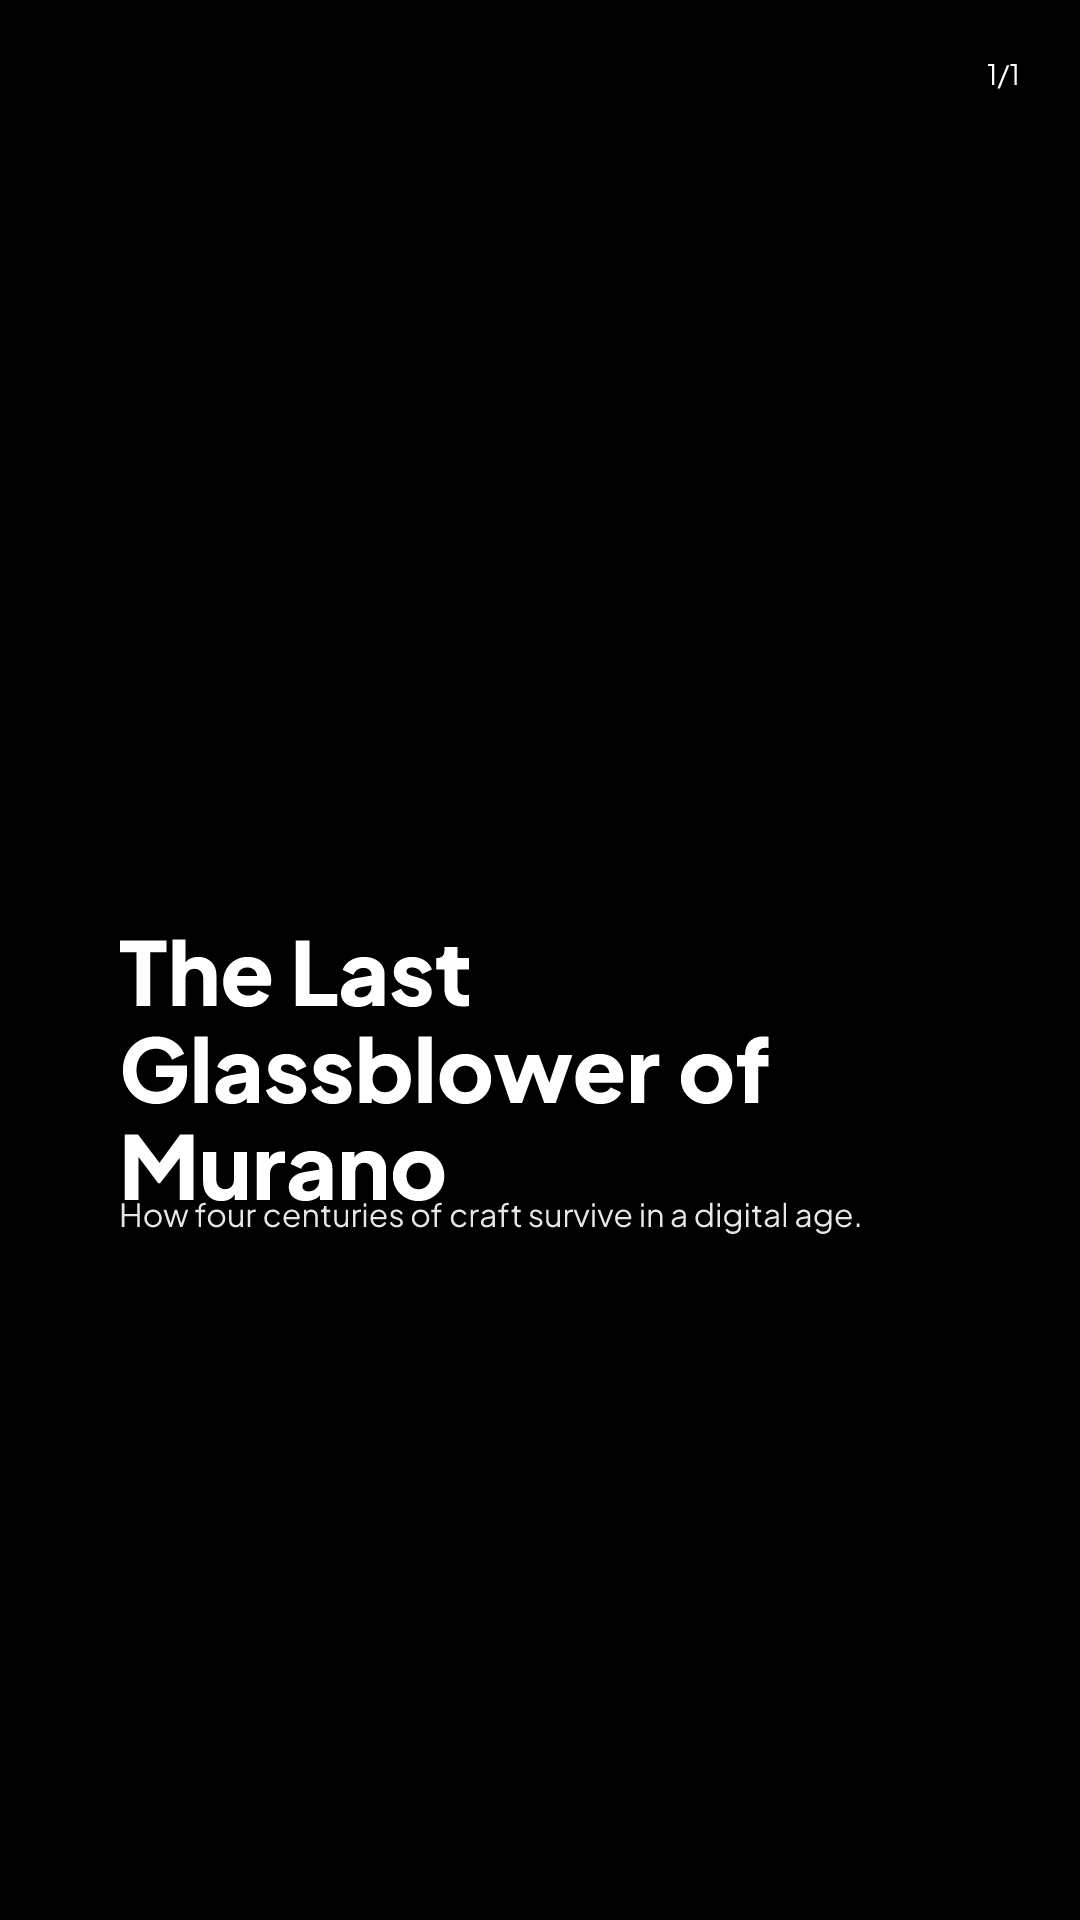
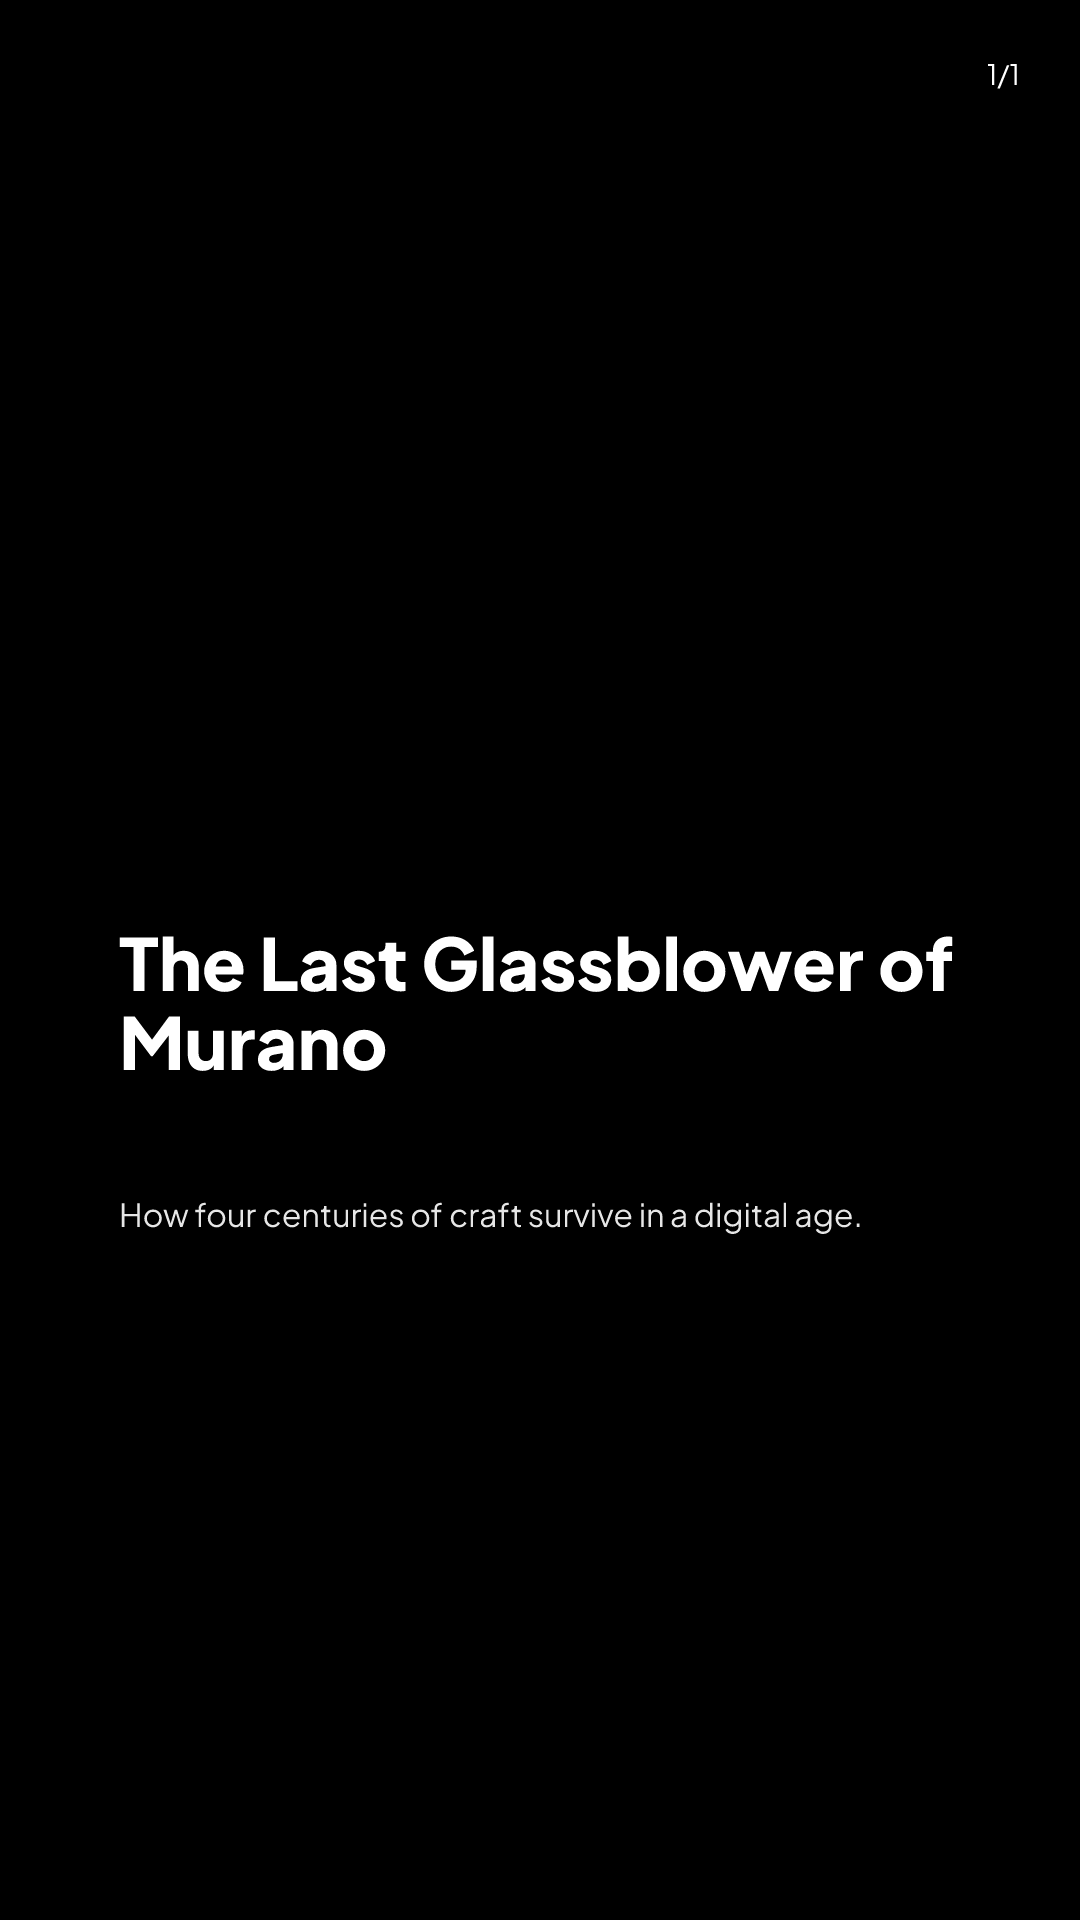
fix(render): tighten hook-fit curves for 4 remaining templates
Audit of HOOK_FIT_REGISTRY against per-template container width and hook
zone height surfaced 4 templates with curves that allow hooks to wrap to
more lines than the hook zone has room for, spilling into the body zone:

- documentary (110px Plus Jakarta Sans, 269px hook zone): 38 chars at
  0.80 produced 3 lines × 97px = 291px — spills 269px hook zone
- editorial-serif (130px Lora bold, 269px inner zone): 30 chars at 0.78
  produced 3 lines × 111px = 333px — spills inner; 48 chars produced
  5 lines × 89 = 445 spilling both inner AND cover. Sample text "The
  quietest revolutions begin in living rooms" was hitting this case.
- notes-app-chic (110px PJS + ransom-note multi-fonts, 346px zone):
  60 chars at 0.64 produced 4 lines × 77 = 308 — fits the generous
  346px zone but ransom-note widening eats the safety buffer.
- brutalist-grid (180px Space Grotesk, 346px zone): even 10 chars at
  full size already overflowed 842px container, and 20 chars at 135px
  produced 2-3 lines × 149 = 447 spilling 346px hook zone.

Tightened curves so each scale step targets single-line fit at 842px
container and ≤2-3 lines × line-height 1.1 at the hook zone height.
brutalist-grid gets the most aggressive curve (most exposed at 180px).

Snapshots regenerated for the documentary template (only one with an
existing snapshot tied to its sample); 4 thumbnails regenerated.

+5 hook-fit unit assertions on real sample.hook_text — locks each
[…]

Changed region(s): [[0.0917, 0.4688, 0.8861, 0.625]]

diff --git a/src/lib/render/__tests__/hook-fit.test.ts b/src/lib/render/__tests__/hook-fit.test.ts
@@ -45,27 +45,51 @@ describe('hook-fit registry', () => {
     expect(getHookFontSize('magazine-bold', 'A'.repeat(60), 120)).toBe(54) // 0.45
     expect(getHookFontSize('magazine-bold', 'A'.repeat(80), 120)).toBe(46) // 0.38
 
-    // documentary baseSize 110
-    expect(getHookFontSize('documentary', 'A'.repeat(20), 110)).toBe(110) // 1.0
-    expect(getHookFontSize('documentary', 'A'.repeat(38), 110)).toBe(88) // 0.80
+    // documentary baseSize 110 — re-tightened 2026-05-02 to match
+    // news-template calibration (842px container, 269px hook zone).
+    expect(getHookFontSize('documentary', 'A'.repeat(14), 110)).toBe(110) // 1.0
+    expect(getHookFontSize('documentary', 'A'.repeat(22), 110)).toBe(88) // 0.80
+    expect(getHookFontSize('documentary', 'A'.repeat(32), 110)).toBe(72) // 0.65
+    expect(getHookFontSize('documentary', 'A'.repeat(48), 110)).toBe(57) // 0.52
+    expect(getHookFontSize('documentary', 'A'.repeat(80), 110)).toBe(46) // 0.42
   })
 
   it('scales Phase 56 templates with their own curves', () => {
-    // editorial-serif baseSize 130
-    expect(getHookFontSize('editorial-serif', 'A'.repeat(16), 130)).toBe(130) // 1.0
-    expect(getHookFontSize('editorial-serif', 'A'.repeat(30), 130)).toBe(101) // 0.78
-    expect(getHookFontSize('editorial-serif', 'A'.repeat(48), 130)).toBe(81) // 0.62
-    expect(getHookFontSize('editorial-serif', 'A'.repeat(80), 130)).toBe(65) // 0.50
+    // editorial-serif baseSize 130 — re-tightened 2026-05-02 (Lora bold serif,
+    // 269px inner hook zone forces stricter curve)
+    expect(getHookFontSize('editorial-serif', 'A'.repeat(13), 130)).toBe(130) // 1.0
+    expect(getHookFontSize('editorial-serif', 'A'.repeat(22), 130)).toBe(101) // 0.78
+    expect(getHookFontSize('editorial-serif', 'A'.repeat(34), 130)).toBe(81) // 0.62
+    expect(getHookFontSize('editorial-serif', 'A'.repeat(50), 130)).toBe(65) // 0.50
+    expect(getHookFontSize('editorial-serif', 'A'.repeat(80), 130)).toBe(52) // 0.40
 
-    // notes-app-chic baseSize 110
-    expect(getHookFontSize('notes-app-chic', 'A'.repeat(20), 110)).toBe(110)
-    expect(getHookFontSize('notes-app-chic', 'A'.repeat(38), 110)).toBe(88)
+    // notes-app-chic baseSize 110 — re-tightened 2026-05-02 (ransom-note
+    // multi-fonts widen lines, so curve mirrors documentary)
+    expect(getHookFontSize('notes-app-chic', 'A'.repeat(14), 110)).toBe(110)
+    expect(getHookFontSize('notes-app-chic', 'A'.repeat(22), 110)).toBe(88)
+    expect(getHookFontSize('notes-app-chic', 'A'.repeat(34), 110)).toBe(72)
+    expect(getHookFontSize('notes-app-chic', 'A'.repeat(50), 110)).toBe(57)
 
-    // brutalist-grid baseSize 180 — tightest curve due to 180px+ sizes
-    expect(getHookFontSize('brutalist-grid', 'A'.repeat(10), 180)).toBe(180) // 1.0
-    expect(getHookFontSize('brutalist-grid', 'A'.repeat(20), 180)).toBe(135) // 0.75
-    expect(getHookFontSize('brutalist-grid', 'A'.repeat(32), 180)).toBe(99) // 0.55
-    expect(getHookFontSize('brutalist-grid', 'A'.repeat(50), 180)).toBe(76) // 0.42
+    // brutalist-grid baseSize 180 — re-tightened 2026-05-02 (most exposed
+    // template; even 8 chars at full size already overflows 842px)
+    expect(getHookFontSize('brutalist-grid', 'A'.repeat(8), 180)).toBe(180) // 1.0
+    expect(getHookFontSize('brutalist-grid', 'A'.repeat(14), 180)).toBe(135) // 0.75
+    expect(getHookFontSize('brutalist-grid', 'A'.repeat(22), 180)).toBe(99) // 0.55
+    expect(getHookFontSize('brutalist-grid', 'A'.repeat(32), 180)).toBe(76) // 0.42
+    expect(getHookFontSize('brutalist-grid', 'A'.repeat(50), 180)).toBe(58) // 0.32
+  })
+
+  // Real-sample regression locks — these are each template's actual
+  // sample.hook_text (the text the picker thumbnail renders). Locking
+  // their resolved font sizes catches the next time someone changes a
+  // sample without re-checking the curve.
+  it('locks resolved font size for each template sample', () => {
+    expect(getHookFontSize('documentary', 'The Last Glassblower of Murano', 110)).toBe(72) // 30 chars
+    expect(
+      getHookFontSize('editorial-serif', 'The quietest revolutions begin in living rooms', 130),
+    ).toBe(65) // 46 chars
+    expect(getHookFontSize('notes-app-chic', 'I quit my job to sell paintings', 110)).toBe(72) // 31 chars
+    expect(getHookFontSize('brutalist-grid', 'NO HEADLINES. JUST TYPE.', 180)).toBe(76) // 24 chars
   })
 
   it('handles null/undefined/empty hook text safely', () => {

diff --git a/src/lib/render/hook-fit.ts b/src/lib/render/hook-fit.ts
@@ -62,42 +62,57 @@ const HOOK_FIT_REGISTRY: Record<string, HookFitSpec> = {
       { maxChars: Infinity, scale: 0.38 },
     ],
   },
+  // documentary — Plus Jakarta Sans, 110px base, hookY 48% / bodyY 62% =
+  // tight 269px hook zone. Tightened 2026-05-02 to match news-template
+  // calibration so multi-line wraps don't bleed into body.
   'documentary': {
     baseSize: 110,
     steps: [
-      { maxChars: 20, scale: 1 },
-      { maxChars: 38, scale: 0.8 },
-      { maxChars: 60, scale: 0.64 },
-      { maxChars: Infinity, scale: 0.52 },
+      { maxChars: 14, scale: 1 },
+      { maxChars: 22, scale: 0.8 },
+      { maxChars: 32, scale: 0.65 },
+      { maxChars: 48, scale: 0.52 },
+      { maxChars: Infinity, scale: 0.42 },
     ],
   },
   // Phase 56 templates.
+  // editorial-serif — Lora bold serif, 130px base, inner hookY 48 → bodyY 62
+  // (269px). Cover layout is generous (346px) but inner is tightest
+  // constraint. Tightened 2026-05-02.
   'editorial-serif': {
     baseSize: 130,
     steps: [
-      { maxChars: 16, scale: 1 },
-      { maxChars: 30, scale: 0.78 },
-      { maxChars: 48, scale: 0.62 },
-      { maxChars: Infinity, scale: 0.5 },
+      { maxChars: 13, scale: 1 },
+      { maxChars: 22, scale: 0.78 },
+      { maxChars: 34, scale: 0.62 },
+      { maxChars: 50, scale: 0.5 },
+      { maxChars: Infinity, scale: 0.4 },
     ],
   },
+  // notes-app-chic — Plus Jakarta Sans + ransom-note multi-fonts. 346px
+  // hook zone is generous, but ransom-note widens lines so add safety buffer.
   'notes-app-chic': {
     baseSize: 110,
     steps: [
-      { maxChars: 20, scale: 1 },
-      { maxChars: 38, scale: 0.8 },
-      { maxChars: 60, scale: 0.64 },
-      { maxChars: Infinity, scale: 0.52 },
+      { maxChars: 14, scale: 1 },
+      { maxChars: 22, scale: 0.8 },
+      { maxChars: 34, scale: 0.65 },
+      { maxChars: 50, scale: 0.52 },
+      { maxChars: Infinity, scale: 0.42 },
     ],
   },
-  // Brutalist hits 180/220px — even short headlines need aggressive scaling.
+  // brutalist-grid — Space Grotesk bold, 180px base. Even 10 chars at full
+  // size overflows 842px container. Aggressive curve. (Cover layout uses
+  // 220px hookFontSize but registry sees template.hookFontSize=180; cover-
+  // aware baseSize is a future enhancement.)
   'brutalist-grid': {
     baseSize: 180,
     steps: [
-      { maxChars: 10, scale: 1 },
-      { maxChars: 20, scale: 0.75 },
-      { maxChars: 32, scale: 0.55 },
-      { maxChars: Infinity, scale: 0.42 },
+      { maxChars: 8, scale: 1 },
+      { maxChars: 14, scale: 0.75 },
+      { maxChars: 22, scale: 0.55 },
+      { maxChars: 32, scale: 0.42 },
+      { maxChars: Infinity, scale: 0.32 },
     ],
   },
 }
